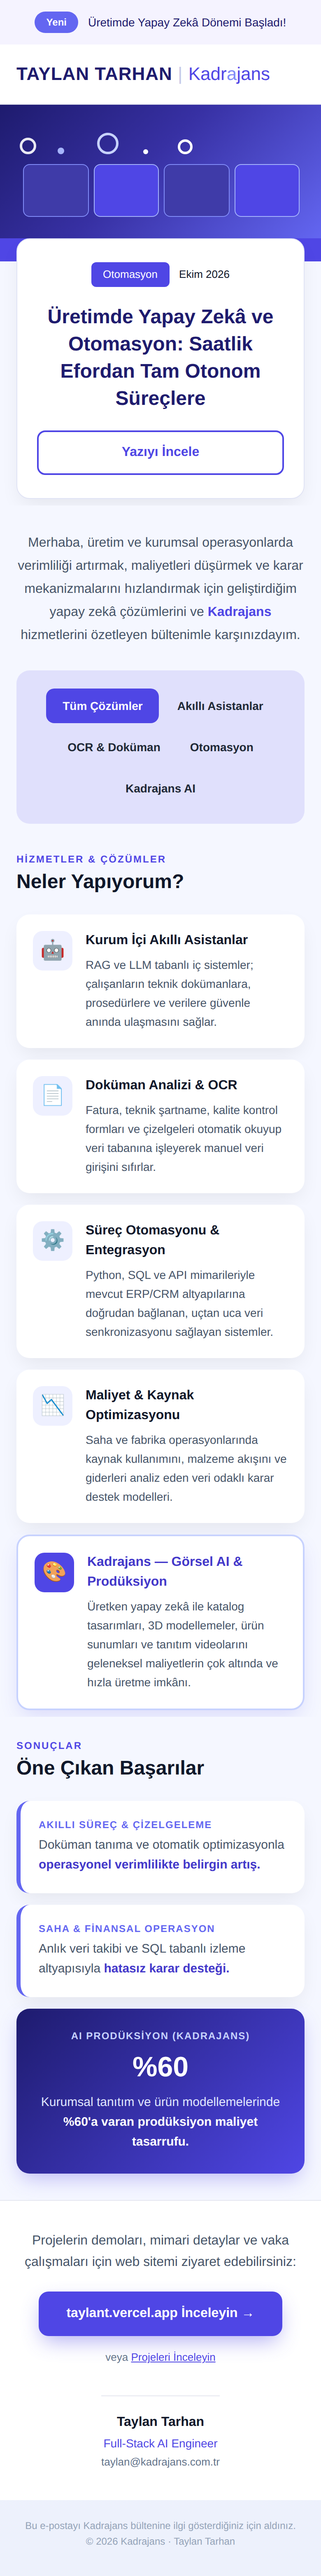
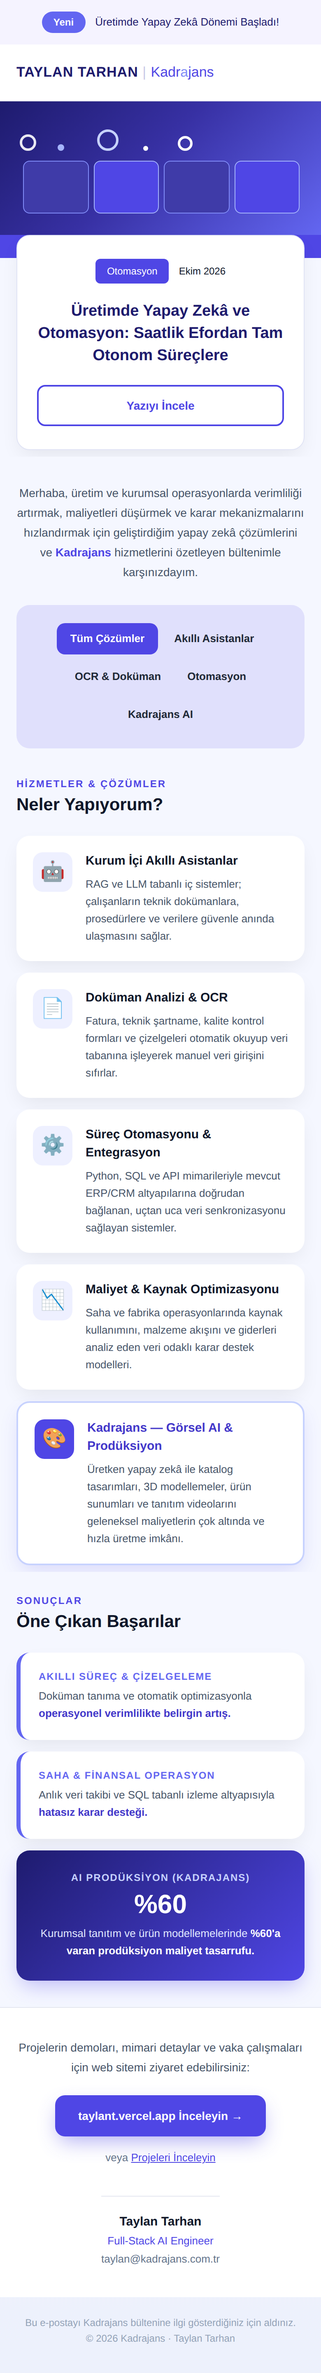
E-bülten yazı boyutlarını küçült (referans ölçeğine yaklaştır)
Claude-Session: https://claude.ai/code/session_01Dy8T3rEx6MDvU9o5oYD5pN

diff --git a/newsletter/kadrajans-bulten.html b/newsletter/kadrajans-bulten.html
@@ -18,11 +18,11 @@
   @media only screen and (max-width:620px){
     .container{width:100%!important}
     .px{padding-left:20px!important;padding-right:20px!important}
-    .hero-title{font-size:24px!important;line-height:33px!important}
-    .h2{font-size:24px!important}
+    .hero-title{font-size:19px!important;line-height:27px!important}
+    .h2{font-size:21px!important}
     .stack{display:block!important;width:100%!important}
     .stack-gap{padding-bottom:12px!important}
-    .metric-num{font-size:34px!important}
+    .metric-num{font-size:32px!important}
     .cta-btn a{display:block!important}
   }
 </style>
@@ -43,7 +43,7 @@
       <td align="center" bgcolor="#f5f3ff" style="background-color:#f5f3ff;padding:14px 16px;">
         <table role="presentation" cellpadding="0" cellspacing="0" border="0"><tr>
           <td bgcolor="#6366f1" style="background-color:#6366f1;border-radius:999px;padding:5px 14px;font-family:'Poppins',Arial,sans-serif;font-size:12px;font-weight:600;color:#ffffff;line-height:16px;">Yeni</td>
-          <td style="padding-left:12px;font-family:'Poppins',Arial,sans-serif;font-size:14px;color:#1e1b6e;line-height:20px;">Üretimde Yapay Zekâ Dönemi Başladı!</td>
+          <td style="padding-left:12px;font-family:'Poppins',Arial,sans-serif;font-size:13px;color:#1e1b6e;line-height:20px;">Üretimde Yapay Zekâ Dönemi Başladı!</td>
         </tr></table>
       </td>
     </tr>
@@ -52,7 +52,7 @@
     <tr>
       <td bgcolor="#ffffff" class="px" style="background-color:#ffffff;padding:22px 32px;border-bottom:1px solid #e5e7f0;">
         <table role="presentation" width="100%" cellpadding="0" cellspacing="0" border="0"><tr>
-          <td align="left" style="font-family:'Poppins',Arial,sans-serif;font-size:22px;line-height:28px;font-weight:800;letter-spacing:.5px;color:#1e1b6e;">
+          <td align="left" style="font-family:'Poppins',Arial,sans-serif;font-size:17px;line-height:24px;font-weight:800;letter-spacing:.5px;color:#1e1b6e;">
             TAYLAN TARHAN <span style="color:#c7c9e6;font-weight:400;">|</span> <span style="color:#4f46e5;font-weight:500;letter-spacing:0;">Kadr<span style="color:#818cf8;">a</span>jans</span>
           </td>
         </tr></table>
@@ -95,13 +95,13 @@
           <tr>
             <td align="center" style="padding:28px 24px 8px 24px;">
               <table role="presentation" cellpadding="0" cellspacing="0" border="0"><tr>
-                <td bgcolor="#4f46e5" style="background-color:#4f46e5;border-radius:6px;padding:6px 14px;font-family:'Poppins',Arial,sans-serif;font-size:13px;font-weight:500;color:#ffffff;line-height:18px;">Otomasyon</td>
-                <td style="padding-left:12px;font-family:'Poppins',Arial,sans-serif;font-size:13px;color:#0f172a;line-height:18px;">Ekim 2026</td>
+                <td bgcolor="#4f46e5" style="background-color:#4f46e5;border-radius:6px;padding:6px 14px;font-family:'Poppins',Arial,sans-serif;font-size:12px;font-weight:500;color:#ffffff;line-height:18px;">Otomasyon</td>
+                <td style="padding-left:12px;font-family:'Poppins',Arial,sans-serif;font-size:12px;color:#0f172a;line-height:18px;">Ekim 2026</td>
               </tr></table>
             </td>
           </tr>
           <tr>
-            <td align="center" class="hero-title" style="padding:12px 24px 22px 24px;font-family:'Poppins',Arial,sans-serif;font-size:26px;line-height:36px;font-weight:700;color:#1e1b6e;">
+            <td align="center" class="hero-title" style="padding:12px 24px 22px 24px;font-family:'Poppins',Arial,sans-serif;font-size:20px;line-height:28px;font-weight:700;color:#1e1b6e;">
               Üretimde Yapay Zekâ ve Otomasyon: Saatlik Efordan Tam Otonom Süreçlere
             </td>
           </tr>
@@ -109,7 +109,7 @@
             <td align="center" style="padding:0 24px 28px 24px;">
               <table role="presentation" width="100%" cellpadding="0" cellspacing="0" border="0" class="cta-btn"><tr>
                 <td align="center" style="border:2px solid #4f46e5;border-radius:10px;">
-                  <a href="https://taylant.vercel.app" target="_blank" style="display:block;padding:14px 20px;font-family:'Poppins',Arial,sans-serif;font-size:16px;font-weight:600;color:#4f46e5;line-height:22px;">Yazıyı İncele</a>
+                  <a href="https://taylant.vercel.app" target="_blank" style="display:block;padding:12px 20px;font-family:'Poppins',Arial,sans-serif;font-size:14px;font-weight:600;color:#4f46e5;line-height:22px;">Yazıyı İncele</a>
                 </td>
               </tr></table>
             </td>
@@ -121,7 +121,7 @@
     <!-- ===== GİRİŞ ===== -->
     <tr>
       <td bgcolor="#f5f7ff" class="px" align="center" style="background-color:#f5f7ff;padding:32px 32px 8px 32px;">
-        <p style="margin:0;font-family:'Poppins',Arial,sans-serif;font-size:16px;line-height:28px;color:#475569;">
+        <p style="margin:0;font-family:'Poppins',Arial,sans-serif;font-size:14px;line-height:24px;color:#475569;">
           Merhaba, üretim ve kurumsal operasyonlarda verimliliği artırmak, maliyetleri düşürmek ve karar mekanizmalarını hızlandırmak için geliştirdiğim yapay zekâ çözümlerini ve <strong style="color:#4f46e5;">Kadrajans</strong> hizmetlerini özetleyen bültenimle karşınızdayım.
         </p>
       </td>
@@ -132,7 +132,7 @@
       <td bgcolor="#f5f7ff" class="px" align="center" style="background-color:#f5f7ff;padding:20px 20px 28px 20px;">
         <table role="presentation" width="100%" cellpadding="0" cellspacing="0" border="0" bgcolor="#e0e0fc" style="background-color:#e0e0fc;border-radius:16px;">
           <tr><td align="center" style="padding:18px 12px;font-size:0;line-height:0;">
-            <a href="https://taylant.vercel.app" style="display:inline-block;margin:4px;padding:11px 20px;background-color:#4f46e5;border-radius:10px;font-family:'Poppins',Arial,sans-serif;font-size:14px;font-weight:600;color:#ffffff;line-height:20px;">Tüm Çözümler</a><a href="https://taylant.vercel.app" style="display:inline-block;margin:4px;padding:11px 14px;border-radius:10px;font-family:'Poppins',Arial,sans-serif;font-size:14px;font-weight:600;color:#1f2937;line-height:20px;">Akıllı Asistanlar</a><a href="https://taylant.vercel.app" style="display:inline-block;margin:4px;padding:11px 14px;border-radius:10px;font-family:'Poppins',Arial,sans-serif;font-size:14px;font-weight:600;color:#1f2937;line-height:20px;">OCR &amp; Doküman</a><a href="https://taylant.vercel.app" style="display:inline-block;margin:4px;padding:11px 14px;border-radius:10px;font-family:'Poppins',Arial,sans-serif;font-size:14px;font-weight:600;color:#1f2937;line-height:20px;">Otomasyon</a><a href="https://taylant.vercel.app" style="display:inline-block;margin:4px;padding:11px 14px;border-radius:10px;font-family:'Poppins',Arial,sans-serif;font-size:14px;font-weight:600;color:#1f2937;line-height:20px;">Kadrajans AI</a>
+            <a href="https://taylant.vercel.app" style="display:inline-block;margin:4px;padding:9px 16px;background-color:#4f46e5;border-radius:10px;font-family:'Poppins',Arial,sans-serif;font-size:13px;font-weight:600;color:#ffffff;line-height:20px;">Tüm Çözümler</a><a href="https://taylant.vercel.app" style="display:inline-block;margin:4px;padding:9px 12px;border-radius:10px;font-family:'Poppins',Arial,sans-serif;font-size:13px;font-weight:600;color:#1f2937;line-height:20px;">Akıllı Asistanlar</a><a href="https://taylant.vercel.app" style="display:inline-block;margin:4px;padding:9px 12px;border-radius:10px;font-family:'Poppins',Arial,sans-serif;font-size:13px;font-weight:600;color:#1f2937;line-height:20px;">OCR &amp; Doküman</a><a href="https://taylant.vercel.app" style="display:inline-block;margin:4px;padding:9px 12px;border-radius:10px;font-family:'Poppins',Arial,sans-serif;font-size:13px;font-weight:600;color:#1f2937;line-height:20px;">Otomasyon</a><a href="https://taylant.vercel.app" style="display:inline-block;margin:4px;padding:9px 12px;border-radius:10px;font-family:'Poppins',Arial,sans-serif;font-size:13px;font-weight:600;color:#1f2937;line-height:20px;">Kadrajans AI</a>
           </td></tr>
         </table>
       </td>
@@ -142,7 +142,7 @@
     <tr>
       <td bgcolor="#f5f7ff" class="px" style="background-color:#f5f7ff;padding:8px 24px 4px 24px;">
         <p style="margin:0 0 4px 0;font-family:'Poppins',Arial,sans-serif;font-size:12px;font-weight:600;letter-spacing:1.5px;color:#4f46e5;text-transform:uppercase;">Hizmetler &amp; Çözümler</p>
-        <h2 class="h2" style="margin:0 0 18px 0;font-family:'Poppins',Arial,sans-serif;font-size:26px;line-height:34px;font-weight:700;color:#0f172a;">Neler Yapıyorum?</h2>
+        <h2 class="h2" style="margin:0 0 18px 0;font-family:'Poppins',Arial,sans-serif;font-size:22px;line-height:30px;font-weight:700;color:#0f172a;">Neler Yapıyorum?</h2>
       </td>
     </tr>
 
@@ -154,8 +154,8 @@
             <table role="presentation" cellpadding="0" cellspacing="0" border="0"><tr><td align="center" width="48" height="48" bgcolor="#eef0ff" style="background-color:#eef0ff;border-radius:12px;font-size:24px;line-height:48px;">🤖</td></tr></table>
           </td>
           <td valign="top" style="padding:20px 20px 20px 16px;">
-            <p style="margin:0 0 6px 0;font-family:'Poppins',Arial,sans-serif;font-size:16px;line-height:24px;font-weight:700;color:#0f172a;">Kurum İçi Akıllı Asistanlar</p>
-            <p style="margin:0;font-family:'Poppins',Arial,sans-serif;font-size:14px;line-height:23px;color:#475569;">RAG ve LLM tabanlı iç sistemler; çalışanların teknik dokümanlara, prosedürlere ve verilere güvenle anında ulaşmasını sağlar.</p>
+            <p style="margin:0 0 6px 0;font-family:'Poppins',Arial,sans-serif;font-size:15px;line-height:22px;font-weight:700;color:#0f172a;">Kurum İçi Akıllı Asistanlar</p>
+            <p style="margin:0;font-family:'Poppins',Arial,sans-serif;font-size:13px;line-height:21px;color:#475569;">RAG ve LLM tabanlı iç sistemler; çalışanların teknik dokümanlara, prosedürlere ve verilere güvenle anında ulaşmasını sağlar.</p>
           </td>
         </tr>
       </table>
@@ -169,8 +169,8 @@
             <table role="presentation" cellpadding="0" cellspacing="0" border="0"><tr><td align="center" width="48" height="48" bgcolor="#eef0ff" style="background-color:#eef0ff;border-radius:12px;font-size:24px;line-height:48px;">📄</td></tr></table>
           </td>
           <td valign="top" style="padding:20px 20px 20px 16px;">
-            <p style="margin:0 0 6px 0;font-family:'Poppins',Arial,sans-serif;font-size:16px;line-height:24px;font-weight:700;color:#0f172a;">Doküman Analizi &amp; OCR</p>
-            <p style="margin:0;font-family:'Poppins',Arial,sans-serif;font-size:14px;line-height:23px;color:#475569;">Fatura, teknik şartname, kalite kontrol formları ve çizelgeleri otomatik okuyup veri tabanına işleyerek manuel veri girişini sıfırlar.</p>
+            <p style="margin:0 0 6px 0;font-family:'Poppins',Arial,sans-serif;font-size:15px;line-height:22px;font-weight:700;color:#0f172a;">Doküman Analizi &amp; OCR</p>
+            <p style="margin:0;font-family:'Poppins',Arial,sans-serif;font-size:13px;line-height:21px;color:#475569;">Fatura, teknik şartname, kalite kontrol formları ve çizelgeleri otomatik okuyup veri tabanına işleyerek manuel veri girişini sıfırlar.</p>
           </td>
         </tr>
       </table>
@@ -184,8 +184,8 @@
             <table role="presentation" cellpadding="0" cellspacing="0" border="0"><tr><td align="center" width="48" height="48" bgcolor="#eef0ff" style="background-color:#eef0ff;border-radius:12px;font-size:24px;line-height:48px;">⚙</td></tr></table>
           </td>
           <td valign="top" style="padding:20px 20px 20px 16px;">
-            <p style="margin:0 0 6px 0;font-family:'Poppins',Arial,sans-serif;font-size:16px;line-height:24px;font-weight:700;color:#0f172a;">Süreç Otomasyonu &amp; Entegrasyon</p>
-            <p style="margin:0;font-family:'Poppins',Arial,sans-serif;font-size:14px;line-height:23px;color:#475569;">Python, SQL ve API mimarileriyle mevcut ERP/CRM altyapılarına doğrudan bağlanan, uçtan uca veri senkronizasyonu sağlayan sistemler.</p>
+            <p style="margin:0 0 6px 0;font-family:'Poppins',Arial,sans-serif;font-size:15px;line-height:22px;font-weight:700;color:#0f172a;">Süreç Otomasyonu &amp; Entegrasyon</p>
+            <p style="margin:0;font-family:'Poppins',Arial,sans-serif;font-size:13px;line-height:21px;color:#475569;">Python, SQL ve API mimarileriyle mevcut ERP/CRM altyapılarına doğrudan bağlanan, uçtan uca veri senkronizasyonu sağlayan sistemler.</p>
           </td>
         </tr>
       </table>
@@ -199,8 +199,8 @@
             <table role="presentation" cellpadding="0" cellspacing="0" border="0"><tr><td align="center" width="48" height="48" bgcolor="#eef0ff" style="background-color:#eef0ff;border-radius:12px;font-size:24px;line-height:48px;">📉</td></tr></table>
           </td>
           <td valign="top" style="padding:20px 20px 20px 16px;">
-            <p style="margin:0 0 6px 0;font-family:'Poppins',Arial,sans-serif;font-size:16px;line-height:24px;font-weight:700;color:#0f172a;">Maliyet &amp; Kaynak Optimizasyonu</p>
-            <p style="margin:0;font-family:'Poppins',Arial,sans-serif;font-size:14px;line-height:23px;color:#475569;">Saha ve fabrika operasyonlarında kaynak kullanımını, malzeme akışını ve giderleri analiz eden veri odaklı karar destek modelleri.</p>
+            <p style="margin:0 0 6px 0;font-family:'Poppins',Arial,sans-serif;font-size:15px;line-height:22px;font-weight:700;color:#0f172a;">Maliyet &amp; Kaynak Optimizasyonu</p>
+            <p style="margin:0;font-family:'Poppins',Arial,sans-serif;font-size:13px;line-height:21px;color:#475569;">Saha ve fabrika operasyonlarında kaynak kullanımını, malzeme akışını ve giderleri analiz eden veri odaklı karar destek modelleri.</p>
           </td>
         </tr>
       </table>
@@ -214,8 +214,8 @@
             <table role="presentation" cellpadding="0" cellspacing="0" border="0"><tr><td align="center" width="48" height="48" bgcolor="#4f46e5" style="background-color:#4f46e5;border-radius:12px;font-size:24px;line-height:48px;">🎨</td></tr></table>
           </td>
           <td valign="top" style="padding:20px 20px 20px 16px;">
-            <p style="margin:0 0 6px 0;font-family:'Poppins',Arial,sans-serif;font-size:16px;line-height:24px;font-weight:700;color:#4338ca;">Kadrajans — Görsel AI &amp; Prodüksiyon</p>
-            <p style="margin:0;font-family:'Poppins',Arial,sans-serif;font-size:14px;line-height:23px;color:#475569;">Üretken yapay zekâ ile katalog tasarımları, 3D modellemeler, ürün sunumları ve tanıtım videolarını geleneksel maliyetlerin çok altında ve hızla üretme imkânı.</p>
+            <p style="margin:0 0 6px 0;font-family:'Poppins',Arial,sans-serif;font-size:15px;line-height:22px;font-weight:700;color:#4338ca;">Kadrajans — Görsel AI &amp; Prodüksiyon</p>
+            <p style="margin:0;font-family:'Poppins',Arial,sans-serif;font-size:13px;line-height:21px;color:#475569;">Üretken yapay zekâ ile katalog tasarımları, 3D modellemeler, ürün sunumları ve tanıtım videolarını geleneksel maliyetlerin çok altında ve hızla üretme imkânı.</p>
           </td>
         </tr>
       </table>
@@ -225,7 +225,7 @@
     <tr>
       <td bgcolor="#f5f7ff" class="px" style="background-color:#f5f7ff;padding:28px 24px 4px 24px;">
         <p style="margin:0 0 4px 0;font-family:'Poppins',Arial,sans-serif;font-size:12px;font-weight:600;letter-spacing:1.5px;color:#4f46e5;text-transform:uppercase;">Sonuçlar</p>
-        <h2 class="h2" style="margin:0 0 18px 0;font-family:'Poppins',Arial,sans-serif;font-size:26px;line-height:34px;font-weight:700;color:#0f172a;">Öne Çıkan Başarılar</h2>
+        <h2 class="h2" style="margin:0 0 18px 0;font-family:'Poppins',Arial,sans-serif;font-size:22px;line-height:30px;font-weight:700;color:#0f172a;">Öne Çıkan Başarılar</h2>
       </td>
     </tr>
 
@@ -233,7 +233,7 @@
       <table role="presentation" width="100%" cellpadding="0" cellspacing="0" border="0" bgcolor="#ffffff" style="background-color:#ffffff;border-radius:16px;box-shadow:0 10px 25px -5px rgba(0,0,0,0.08);">
         <tr><td style="padding:22px 22px;border-left:5px solid #6366f1;border-radius:16px 0 0 16px;">
           <p style="margin:0 0 6px 0;font-family:'Poppins',Arial,sans-serif;font-size:12px;font-weight:600;letter-spacing:1px;color:#6366f1;text-transform:uppercase;">Akıllı Süreç &amp; Çizelgeleme</p>
-          <p style="margin:0;font-family:'Poppins',Arial,sans-serif;font-size:15px;line-height:24px;color:#475569;">Doküman tanıma ve otomatik optimizasyonla <strong style="color:#4338ca;">operasyonel verimlilikte belirgin artış.</strong></p>
+          <p style="margin:0;font-family:'Poppins',Arial,sans-serif;font-size:13px;line-height:21px;color:#475569;">Doküman tanıma ve otomatik optimizasyonla <strong style="color:#4338ca;">operasyonel verimlilikte belirgin artış.</strong></p>
         </td></tr>
       </table>
     </td></tr>
@@ -242,7 +242,7 @@
       <table role="presentation" width="100%" cellpadding="0" cellspacing="0" border="0" bgcolor="#ffffff" style="background-color:#ffffff;border-radius:16px;box-shadow:0 10px 25px -5px rgba(0,0,0,0.08);">
         <tr><td style="padding:22px 22px;border-left:5px solid #6366f1;border-radius:16px 0 0 16px;">
           <p style="margin:0 0 6px 0;font-family:'Poppins',Arial,sans-serif;font-size:12px;font-weight:600;letter-spacing:1px;color:#6366f1;text-transform:uppercase;">Saha &amp; Finansal Operasyon</p>
-          <p style="margin:0;font-family:'Poppins',Arial,sans-serif;font-size:15px;line-height:24px;color:#475569;">Anlık veri takibi ve SQL tabanlı izleme altyapısıyla <strong style="color:#4338ca;">hatasız karar desteği.</strong></p>
+          <p style="margin:0;font-family:'Poppins',Arial,sans-serif;font-size:13px;line-height:21px;color:#475569;">Anlık veri takibi ve SQL tabanlı izleme altyapısıyla <strong style="color:#4338ca;">hatasız karar desteği.</strong></p>
         </td></tr>
       </table>
     </td></tr>
@@ -251,8 +251,8 @@
       <table role="presentation" width="100%" cellpadding="0" cellspacing="0" border="0" bgcolor="#4338ca" style="background-color:#4338ca;background-image:linear-gradient(135deg,#1e1b6e 0%,#4f46e5 100%);border-radius:16px;box-shadow:0 10px 25px -5px rgba(79,70,229,0.35);">
         <tr><td align="center" style="padding:26px 22px;">
           <p style="margin:0 0 4px 0;font-family:'Poppins',Arial,sans-serif;font-size:12px;font-weight:600;letter-spacing:1px;color:#c7d2fe;text-transform:uppercase;">AI Prodüksiyon (Kadrajans)</p>
-          <p class="metric-num" style="margin:0;font-family:'Poppins',Arial,sans-serif;font-size:44px;line-height:54px;font-weight:800;color:#ffffff;">%60</p>
-          <p style="margin:4px 0 0 0;font-family:'Poppins',Arial,sans-serif;font-size:15px;line-height:24px;color:#e0e7ff;">Kurumsal tanıtım ve ürün modellemelerinde <strong style="color:#ffffff;">%60'a varan prodüksiyon maliyet tasarrufu.</strong></p>
+          <p class="metric-num" style="margin:0;font-family:'Poppins',Arial,sans-serif;font-size:34px;line-height:42px;font-weight:800;color:#ffffff;">%60</p>
+          <p style="margin:4px 0 0 0;font-family:'Poppins',Arial,sans-serif;font-size:13px;line-height:21px;color:#e0e7ff;">Kurumsal tanıtım ve ürün modellemelerinde <strong style="color:#ffffff;">%60'a varan prodüksiyon maliyet tasarrufu.</strong></p>
         </td></tr>
       </table>
     </td></tr>
@@ -260,10 +260,10 @@
     <!-- ===== KAPANIŞ & CTA ===== -->
     <tr>
       <td bgcolor="#ffffff" class="px" align="center" style="background-color:#ffffff;padding:36px 32px 12px 32px;border-top:1px solid #e5e7f0;">
-        <p style="margin:0 0 22px 0;font-family:'Poppins',Arial,sans-serif;font-size:16px;line-height:26px;color:#475569;">Projelerin demoları, mimari detaylar ve vaka çalışmaları için web sitemi ziyaret edebilirsiniz:</p>
+        <p style="margin:0 0 22px 0;font-family:'Poppins',Arial,sans-serif;font-size:14px;line-height:24px;color:#475569;">Projelerin demoları, mimari detaylar ve vaka çalışmaları için web sitemi ziyaret edebilirsiniz:</p>
         <table role="presentation" cellpadding="0" cellspacing="0" border="0" class="cta-btn" style="margin:0 auto;"><tr>
           <td align="center" bgcolor="#4f46e5" style="background-color:#4f46e5;border-radius:12px;box-shadow:0 10px 25px -5px rgba(79,70,229,0.45);">
-            <a href="https://taylant.vercel.app" target="_blank" style="display:inline-block;padding:16px 34px;font-family:'Poppins',Arial,sans-serif;font-size:16px;font-weight:600;color:#ffffff;line-height:22px;">taylant.vercel.app İnceleyin &rarr;</a>
+            <a href="https://taylant.vercel.app" target="_blank" style="display:inline-block;padding:14px 28px;font-family:'Poppins',Arial,sans-serif;font-size:14px;font-weight:600;color:#ffffff;line-height:22px;">taylant.vercel.app İnceleyin &rarr;</a>
           </td>
         </tr></table>
         <p style="margin:16px 0 0 0;font-family:'Poppins',Arial,sans-serif;font-size:13px;line-height:20px;color:#64748b;">veya <a href="https://taylant.vercel.app" style="color:#4f46e5;text-decoration:underline;">Projeleri İnceleyin</a></p>
@@ -274,8 +274,8 @@
     <tr>
       <td bgcolor="#ffffff" class="px" align="center" style="background-color:#ffffff;padding:24px 32px 36px 32px;">
         <table role="presentation" cellpadding="0" cellspacing="0" border="0" align="center"><tr><td style="border-top:1px solid #e5e7f0;padding-top:20px;" align="center">
-          <p style="margin:0;font-family:'Poppins',Arial,sans-serif;font-size:16px;line-height:24px;font-weight:700;color:#0f172a;">Taylan Tarhan</p>
-          <p style="margin:2px 0 0 0;font-family:'Poppins',Arial,sans-serif;font-size:14px;line-height:22px;color:#4f46e5;font-weight:500;">Full-Stack AI Engineer</p>
+          <p style="margin:0;font-family:'Poppins',Arial,sans-serif;font-size:15px;line-height:22px;font-weight:700;color:#0f172a;">Taylan Tarhan</p>
+          <p style="margin:2px 0 0 0;font-family:'Poppins',Arial,sans-serif;font-size:13px;line-height:20px;color:#4f46e5;font-weight:500;">Full-Stack AI Engineer</p>
           <p style="margin:2px 0 0 0;font-family:'Poppins',Arial,sans-serif;font-size:13px;line-height:20px;color:#64748b;"><a href="mailto:taylan@kadrajans.com.tr" style="color:#64748b;">taylan@kadrajans.com.tr</a></p>
         </td></tr></table>
       </td>
